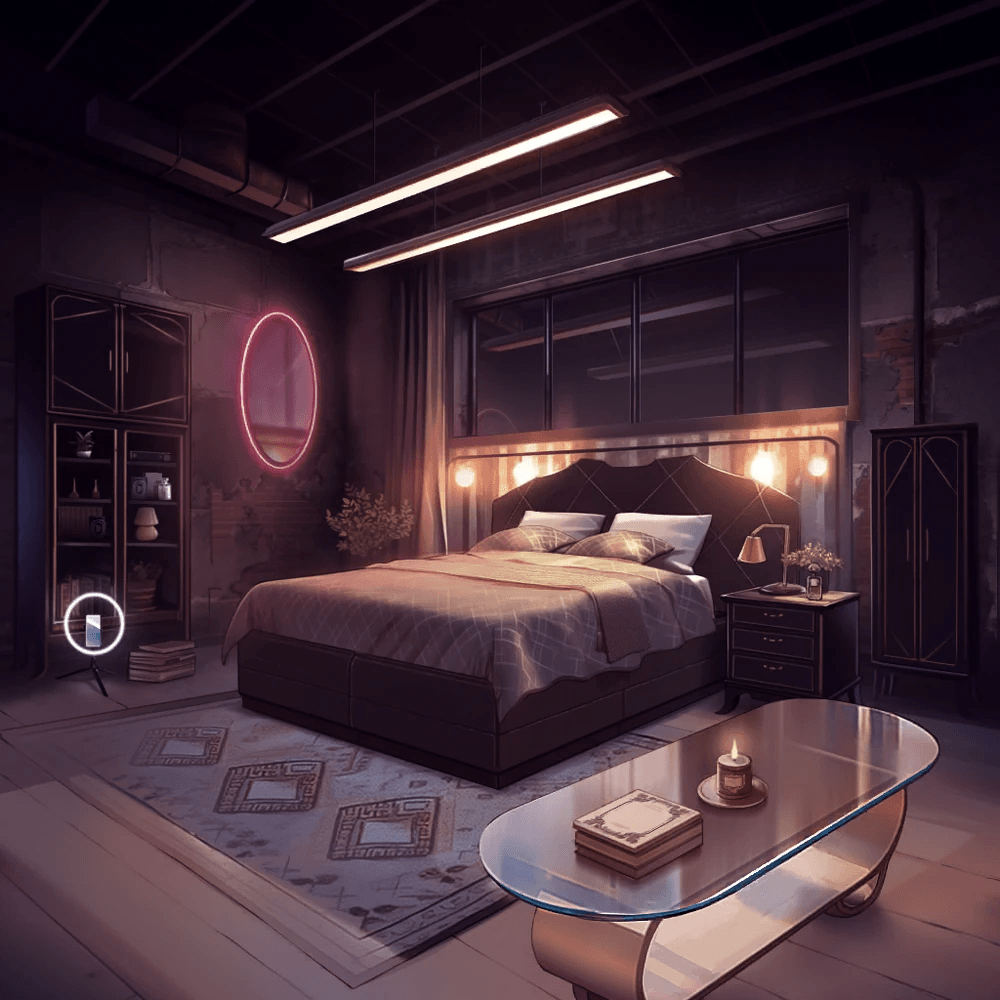
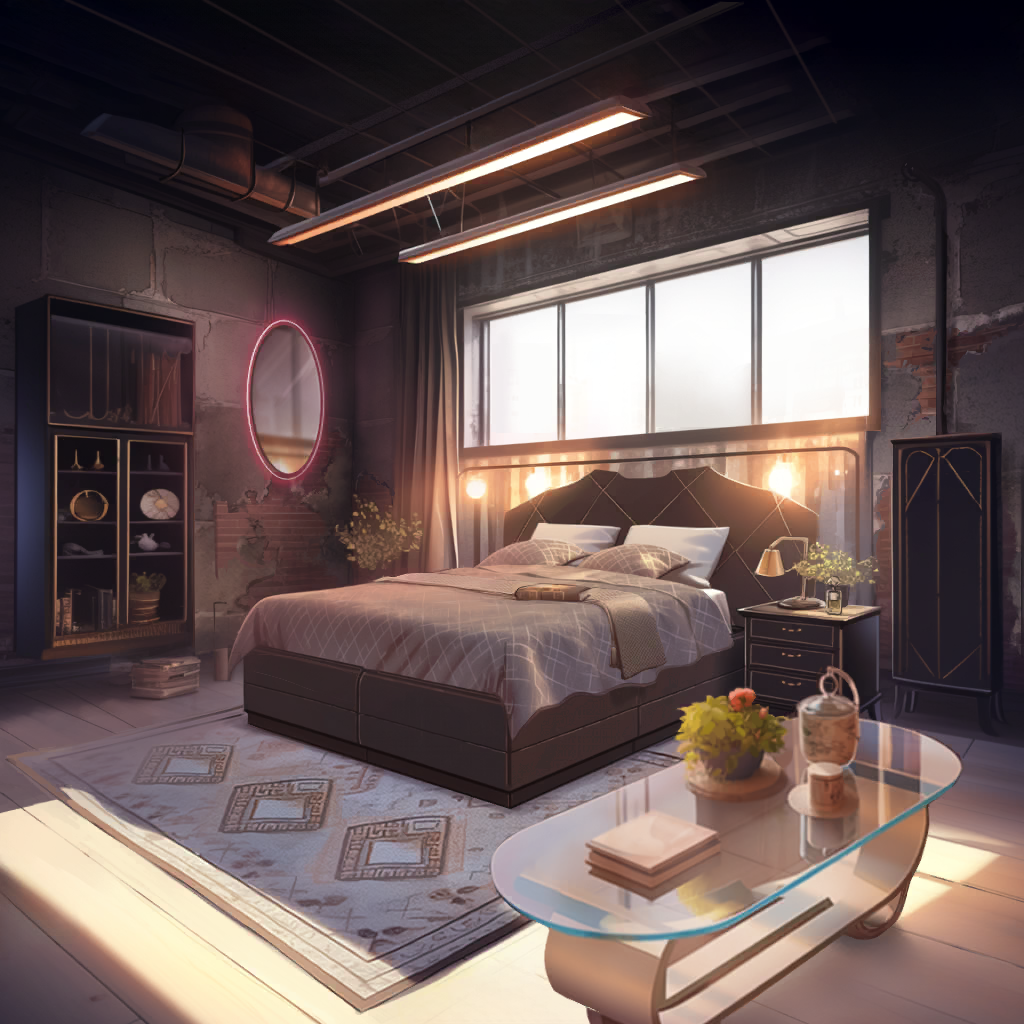
add more backgrounds

diff --git a/constants/backgrounds.js b/constants/backgrounds.js
@@ -28,6 +28,7 @@ export const CHARACTER_ROOMS = {
   REN: "Ren_Room",
   EDWARD: "Edward_Room",
   RUI: "Rui_Room",
+  LYCA: "Lyca_Room",
   TAIGA: "Taiga_Room",
   ELIAS: "Elias_Room",
 };
@@ -54,17 +55,21 @@ export const BACKGROUND_DISPLAY_NAMES = {
   "Vagastrom_Alan_Room.png": "Alan's Room",
   "Vagastrom_Alan_Room_Entrance.png": "Alan's Quarters",
   "Vagastrom_Leo_Room.png": "Leo's Room",
+  "Vagastrom_Leo_Room_PM.png": "Leo's Room",
   "Vagastrom_Shohei_Room.png": "Sho's Room",
   "Hotarubi_Subaru_Entrance.png": "Subaru's Quarters",
   "Hotarubi_Zenji_Room_PM.png": "Zenji's Room",
   "Mortkranken_Jiro_Room.png": "Jiro's Room",
   "Jabberwock_Ren_Room.png": "Ren's Room",
+  "Jabberwock_Ren_Room_PM.png": "Ren's Room",
   "Obscuary_Edward_Room.png": "Edward's Room",
   "Obscuary_Edward_Room_2.png": "Edward's Room",
   "Obscuary_Edward_Room_Entrance.png": "Edward's Quarters",
   "Obscuary_Rui_Room.png": "Rui's Room",
+  "Obscuary_Lyca_Room.png": "Lyca's Room",
   "Sinostra_Taiga_Room.png": "Taiga's Room",
   "Sinostra_Taiga_Room_Entrance.png": "Taiga's Quarters",
+  "Sinostra_Taiga_Room_Entrance_2.png": "Taiga's Quarters",
   "Dionysia_Elias_Room.png": "Elias's Room",
   // Places
   "Dionysia_Heebie_Jeebie_House.png": "Heebie-Jeebie House",
@@ -173,6 +178,7 @@ export const BACKGROUNDS_BY_LOCATION = {
     "Frostheim_Vault_Entrance.png",
   ],
   [HOUSES.VAGASTROM]: [
+    "Vagastrom_Back_Garage.png",
     "Vagastrom_Back_Garage_PM.png",
     "Vagastrom_Corridor.png",
     "Vagastrom_Garage.png",
@@ -192,7 +198,9 @@ export const BACKGROUNDS_BY_LOCATION = {
     "Hotarubi_Lake_PM.png",
     "Hotarubi_Parlor.png",
     "Hotarubi_Parlor_PM.png",
+    "Hotarubi_Riverside_PM.png",
     "Hotarubi_Tea_Room.png",
+    "Hotarubi_Tea_Room_2.png",
     "Hotarubi_Tea_Room_PM.png",
     "Hotarubi_Temple.png",
     "Hotarubi_Temple_PM.png",
@@ -212,6 +220,7 @@ export const BACKGROUNDS_BY_LOCATION = {
     "Dionysia_Workshop_2.png",
   ],
   [HOUSES.MORTKRANKEN]: [
+    "Mortkranken_Corridor.png",
     "Mortkranken_Entrance.png",
     "Mortkranken_Entrance_PM.png",
     "Mortkranken_Examination_Room.png",
@@ -223,19 +232,28 @@ export const BACKGROUNDS_BY_LOCATION = {
   ],
   [HOUSES.JABBERWOCK]: [
     "Jabberwock_Cave.png",
+    "Jabberwock_Cave_2.png",
     "Jabberwock_Cave_PM.png",
     "Jabberwock_Dorm_Room.png",
+    "Jabberwock_Dorm_Room_PM.png",
     "Jabberwock_Entrance.png",
     "Jabberwock_Field.png",
+    "Jabberwock_Field_2.png",
+    "Jabberwock_Field_2_PM.png",
     "Jabberwock_Field_PM.png",
+    "Jabberwock_Forest.png",
+    "Jabberwock_Forest_PM.png",
     "Jabberwock_Kitchen.png",
+    "Jabberwock_Mountain.png",
     "Jabberwock_Mountain_PM.png",
     "Jabberwock_Tree.png",
     "Jabberwock_Tree_PM.png",
+    "Jabberwock_Ushi-Oni_Pen.png",
     "Jabberwock_Ushi-Oni_Pen_PM.png",
   ],
   [HOUSES.OBSCUARY]: [
     "Obscuary_Bar.png",
+    "Obscuary_Corridor.png",
     "Obscuary_Entrance.png",
     "Obscuary_Garden.png",
     "Obscuary_Guest_Room.png",
@@ -246,6 +264,7 @@ export const BACKGROUNDS_BY_LOCATION = {
     "Sinostra_Auction_Hall_Cage.png",
     "Sinostra_Casino.png",
     "Sinostra_Casino_Nook.png",
+    "Sinostra_Gambling_Den.png",
     "Sinostra_VIP_Room.png",
     "Sinostra_VIP_Room_Entrance.png",
   ],
@@ -342,8 +361,12 @@ export const BACKGROUNDS_BY_LOCATION = {
     "Hotarubi_Eternal_Bamboo.png",
     "Hotarubi_Garden_Star_Festival.png",
     "Hotarubi_Garden_Star_Festival_PM.png",
+    "Hotarubi_Guard_Post.png",
+    "Hotarubi_Guard_Post_PM.png",
     "Hotarubi_Harbor_Star_Festival.png",
+    "Hotarubi_Harbor_Star_Festival_PM.png",
     "Hotarubi_River_PM.png",
+    "Hotarubi_Riverside_Star_Festival_PM.png",
     "Hotarubi_Stall_Star_Festival.png",
     "Hotarubi_Stall_Star_Festival_PM.png",
   ],
@@ -367,6 +390,14 @@ export const BACKGROUNDS_BY_LOCATION = {
     "Chuka_Restaurant_PM.png",
     "Chuka_Sidestreet.png",
     "Chuka_Sidestreet_PM.png",
+    "Harajuku_Alley_PM.png",
+    "Harajuku_Takeshita_PM.png",
+    "Jiyuuno_megami_PM.png",
+    "Shinjuku.png",
+    "Shinjuku_Donut_Store.png",
+    "Shinjuku_Hanamichi_Street_PM.png",
+    "Shinjuku_Ramen_PM.png",
+    "Tokyo_Bay.png",
   ],
   [CHARACTER_ROOMS.JIN]: [
     "Frostheim_Jin_Room.png",
@@ -378,21 +409,29 @@ export const BACKGROUNDS_BY_LOCATION = {
     "Vagastrom_Alan_Room.png",
     "Vagastrom_Alan_Room_Entrance.png",
   ],
-  [CHARACTER_ROOMS.LEO]: ["Vagastrom_Leo_Room.png"],
+  [CHARACTER_ROOMS.LEO]: [
+    "Vagastrom_Leo_Room.png",
+    "Vagastrom_Leo_Room_PM.png",
+  ],
   [CHARACTER_ROOMS.SHOHEI]: ["Vagastrom_Shohei_Room.png"],
   [CHARACTER_ROOMS.SUBARU]: ["Hotarubi_Subaru_Entrance.png"],
   [CHARACTER_ROOMS.ZENJI]: ["Hotarubi_Zenji_Room_PM.png"],
   [CHARACTER_ROOMS.JIRO]: ["Mortkranken_Jiro_Room.png"],
-  [CHARACTER_ROOMS.REN]: ["Jabberwock_Ren_Room.png"],
+  [CHARACTER_ROOMS.REN]: [
+    "Jabberwock_Ren_Room.png",
+    "Jabberwock_Ren_Room_PM.png",
+  ],
   [CHARACTER_ROOMS.EDWARD]: [
     "Obscuary_Edward_Room.png",
     "Obscuary_Edward_Room_2.png",
     "Obscuary_Edward_Room_Entrance.png",
   ],
   [CHARACTER_ROOMS.RUI]: ["Obscuary_Rui_Room.png"],
+  [CHARACTER_ROOMS.LYCA]: ["Obscuary_Lyca_Room.png"],
   [CHARACTER_ROOMS.TAIGA]: [
     "Sinostra_Taiga_Room.png",
     "Sinostra_Taiga_Room_Entrance.png",
+    "Sinostra_Taiga_Room_Entrance_2.png",
   ],
   [CHARACTER_ROOMS.ELIAS]: ["Dionysia_Elias_Room.png"],
 };
@@ -552,9 +591,15 @@ export const CHARACTER_SIGNATURE_SPOTS = {
     "Darkwick_Mystery_Diner_PM.png": 1.5,
   },
   shohei: { "Darkwick_Food_Truck.png": 1.5 },
+  // Jo: "I've left it alone since it's become Shion's hangout" — the
+  // Heebie-Jeebie House. The Breeding Room is his too. Both are Dionysia, already
+  // his turf, so these are only weights. The Docks are Darkwick, pinned in.
   shion: {
     "Darkwick_Docks.png": 1.5,
     "Darkwick_Docks_2.png": 1.5,
+    "Dionysia_Heebie_Jeebie_House.png": 1.5,
+    "Dionysia_Heebie_Jeebie_House_PM.png": 1.5,
+    "Dionysia_Breeding_Room.png": 1.5,
   },
   alan: { "Vagastrom_The_Pit.png": 1.5 },
   romeo: {
@@ -588,6 +633,7 @@ export const CHARACTER_SIGNATURE_SPOTS = {
   taiga: {
     "Sinostra_Casino.png": 1.5,
     "Sinostra_Casino_Nook.png": 1.5,
+    "Sinostra_Gambling_Den.png": 1.5,
   },
   // Jo: "Mio should be in the workshop." / Mio: "...then head back to the
   // workshop and hand out materials".
@@ -595,11 +641,9 @@ export const CHARACTER_SIGNATURE_SPOTS = {
     "Dionysia_Workshop.png": 1.5,
     "Dionysia_Workshop_2.png": 1.5,
   },
-  // "Spends day and night running around after the creatures in his care."
+  // No Jabberwock weights: running after his creatures, he could be anywhere
+  // in the house, so every Jabberwock spot is equally his.
   haru: {
-    "Jabberwock_Field.png": 1.5,
-    "Jabberwock_Field_PM.png": 1.5,
-    "Jabberwock_Ushi-Oni_Pen_PM.png": 1.5,
     // Can turn up at Rui's bar. 1x: findable there, not a regular (he has no
     // "usual" drink there; his canon drink is an energy drink).
     "Obscuary_Bar.png": 1,

diff --git a/constants/characters.js b/constants/characters.js
@@ -933,6 +933,7 @@ export const CHARACTERS = [
     firstName: "Lyca",
     lastName: "Colt",
     house: HOUSES.OBSCUARY,
+    exclusiveRoom: CHARACTER_ROOMS.LYCA,
     additionalLocations: [HOUSES.HOTARUBI],
     images: {
       uniform: "Lyca_Colt_Uniform.png",
